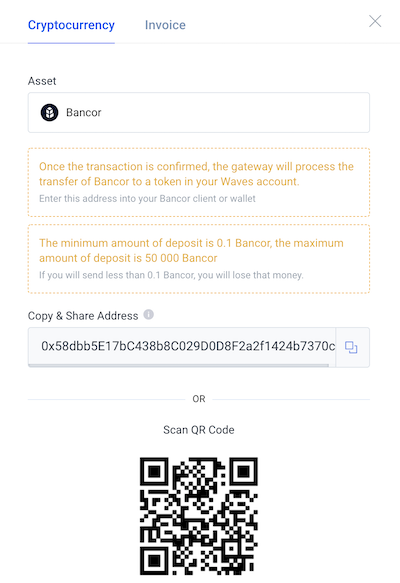
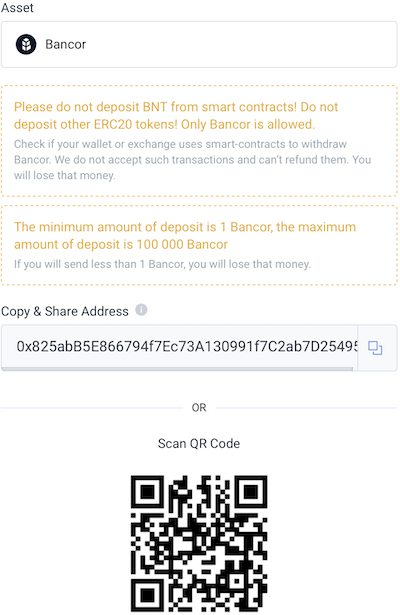
Updates

diff --git a/ru/waves-client/frequently-asked-questions-faq/transfers-and-gateways/payment-gateway.md b/ru/waves-client/frequently-asked-questions-faq/transfers-and-gateways/payment-gateway.md
@@ -1,6 +1,6 @@
 ## **Что такое платежный шлюз?**
 
-Waves платформа позволяет хранить и передавать внешние валюты с использованием своей сети. Данная возможность реализована на основе централизованного шлюза [Coinomat](https://coinomat.com/) и собственного шлюза [Wavesplatform[(https://wavesplatform.com): Биткоины или любые поддерживаемые внешние монеты передаются на личный адрес пользователя посредством стандартной транзакции. После обработки пользователь получает, например Ишесщшт ассет (wBTC). Каждый wBTC ассет обеспечен 1:1 ценностью относительно реальной монеты.
+Waves платформа позволяет хранить и передавать внешние валюты с использованием своей сети. Данная возможность реализована на основе централизованного шлюза [Coinomat](https://coinomat.com/) и собственного шлюза [Wavesplatform](https://wavesplatform.com): Биткоины или любые поддерживаемые внешние монеты передаются на личный адрес пользователя посредством стандартной транзакции. После обработки пользователь получает, например Ишесщшт ассет (wBTC). Каждый wBTC ассет обеспечен 1:1 ценностью относительно реальной монеты.
 
 \*На данный момент уже доступны шлюзы на основе Coinomat для: Bitcoin, Ethereum, Litecoin, Bitcoin Cash, ZCash, Dash, Monero, Bitcoin SV и Vostok, Bancor на осонове Wavesplatform шлюза.
 
@@ -10,7 +10,7 @@ Waves платформа позволяет хранить и передават
 
 Процесс ввода и вывода криптовалют может занимать до 120 минут. Средства будут направлены на указанный адрес.
 
-**Важно**: Внешние транзакции всегда отправляются только на Waves адреса шлюзов: для шлюза Coinomat -  **3PAs2qSeUAfgqSKS8LpZPKGYEjJKcud9Djr**; для Wavesplatform шлюза адреса могут отличаться. При выводе криптовалют из Waves аккаунта проверяйте адрес в уведомлении:
+**Важно**: Внешние транзакции всегда отправляются только на Waves адреса шлюзов: для шлюза Coinomat -  **3PAs2qSeUAfgqSKS8LpZPKGYEjJKcud9Djr**; для Wavesplatform шлюза адреса могут отличаться. При выводе криптовалют из Waves аккаунта проверяйте адрес в уведомлении (cм. **Адрес шлюза**):
 
 Coinomat:
 

diff --git a/ru/waves-client/transfers-and-gateways/bancor-transfers.md b/ru/waves-client/transfers-and-gateways/bancor-transfers.md
@@ -18,13 +18,13 @@ Bancor поступают на Bancor адрес выданный пользов
 
 Перед вводом, пожалуйста, внимательно прочитайте условия:
 
-**Как только транзакция будет подтверждена, шлюз отправит Bancor-токен на ваш аккаунт Waves**
+**Не отправляйте BNT со смарт-контрактов! Не отправляйте другие ERC20-токены! Только Bancor.**
 ```
-Введите этот адрес в ваш Bancor клиент или кошелёк.
+Проверьте, не использует ли ваш кошелёк или биржа смарт-контракты для отправки Bancor. Мы не принимаем такие переводы и не можем возместить их. Вы потеряете эти деньги.
 ```
-**Минимальная сумма депозита **0.1 Bancor**, максимальная сумма депозита **50 000 Bancor**
+**Минимальная сумма депозита 1 Bancor, максимальная сумма депозита 100 000 Bancor**
 ```
-Если вы отправите меньше чем 0.1 Bancor, вы потеряете деньги.
+Если вы отправите меньше чем 1 Bancor, вы потеряете деньги.
 ```
 
 ![](/_assets/Bancor_transfers_02.png)

diff --git a/en/waves-client/transfers-and-gateways/bancor-transfers.md b/en/waves-client/transfers-and-gateways/bancor-transfers.md
@@ -13,13 +13,13 @@ In the Bancor section click on the **Receive** button.
 
 The following window will appear. Before proceeding please carefully read the conditions:
 
-**Once the transaction is confirmed, the gateway will process the transfer of Bancor to a token in your Waves account.**
+**Please do not deposit BNT from smart contracts! Do not deposit other ERC20 tokens! Only Bancor is allowed.**
 ```
-Enter this address into your Bancor client or wallet.
+Check if your wallet or exchange uses smart-contracts to withdraw Bancor. We do not accept such transactions and can’t refund them. You will lose that money.
 ```
-**The minimum amount of deposit is **0.1 Bancor**, the maximum amount of deposit is **50 000 Bancor**
+**The minimum amount of deposit is 1 Bancor, the maximum amount of deposit is 100 000 Bancor**
 ```
-If you will send less than 0.1 Bancor, you will lose that money.
+If you will send less than 1 Bancor, you will lose that money.
 ```
 
 Copy the shown Bancor address or Scan QR Code and send a payment.

diff --git a/en/waves-client/frequently-asked-questions-faq/transfers-and-gateways/payment-gateway.md b/en/waves-client/frequently-asked-questions-faq/transfers-and-gateways/payment-gateway.md
@@ -10,7 +10,7 @@ After creating a new transfer, Bitcoins or any other supported external coins ar
 
 So, you will receive coins to specified address. Please keep in mind, transfers **may** takes up to 120 minutes.
 
-**Warning**: The gateway transactions are always processing only via the Waves addresses. For Coinomat gateway: **3PAs2qSeUAfgqSKS8LpZPKGYEjJKcud9Djr**. Addresses for Wavesplatform gateways can be vary. Please check wallet notification during creating outgoing transfers.
+**Warning**: The gateway transactions are always processing only via the Waves addresses. For Coinomat gateway: **3PAs2qSeUAfgqSKS8LpZPKGYEjJKcud9Djr**. Addresses for Wavesplatform gateways can be vary. Please check wallet notification during creating outgoing transfers (see **Gateway address**):
 
 Coinomat gateway:
 
